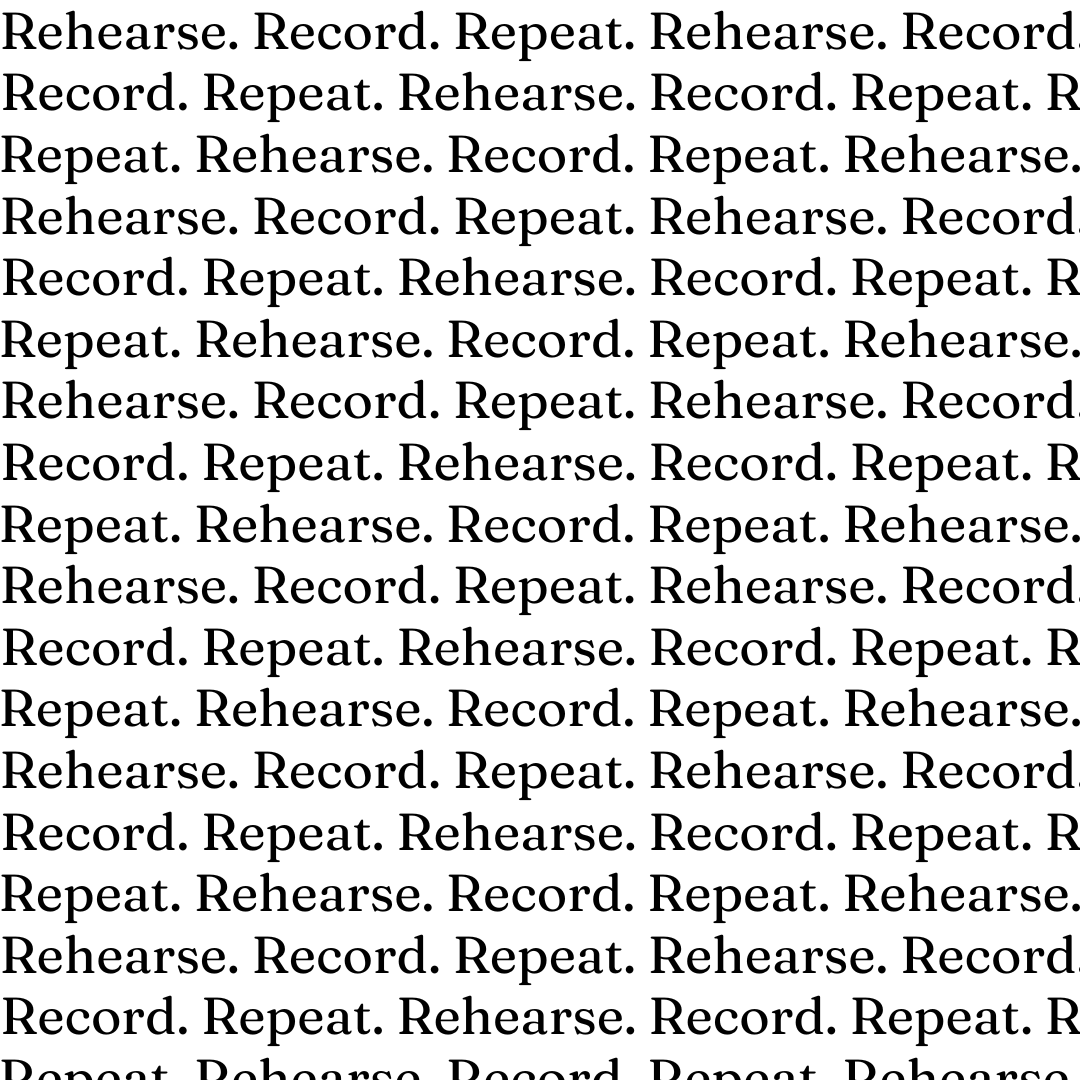
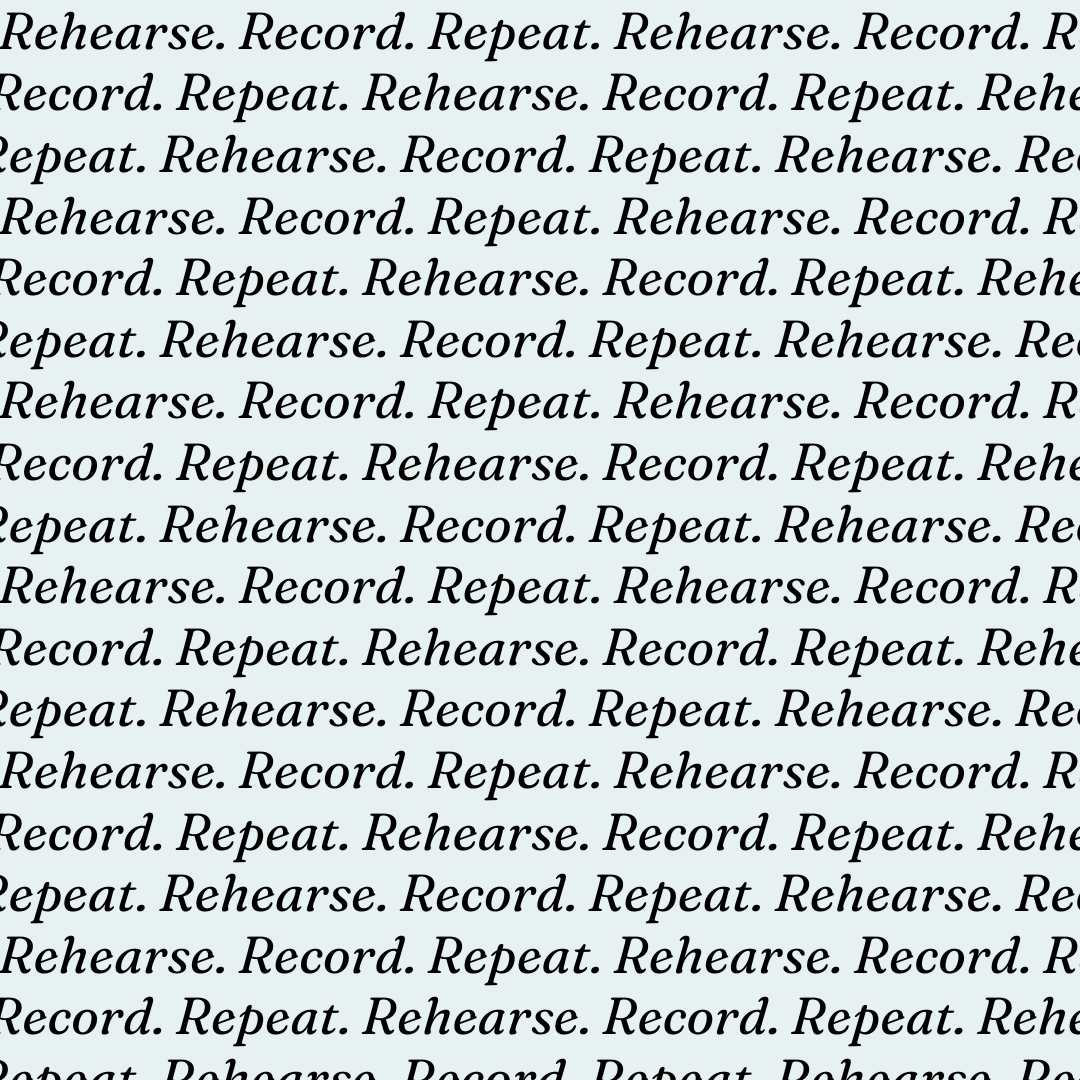
Position repeating text image to allow for larger devices

Changed region(s): [[0.0, 0.0, 1.0, 1.0]]

diff --git a/templates/landing.html b/templates/landing.html
@@ -10,7 +10,7 @@
         <!-- Column Two -->
         <div class="col-md-6 bg-dark-green d-flex flex-column align-items-center">
             <!-- <h3>Rehearse. Record. Repeat</h3> -->
-            <h1>Get closer to your musical goals with <strong>Rescala</strong></h1>
+            <h1 class="text-center mt-5">Get closer to your musical goals with <strong>Rescala</strong></h1>
             <p> Rescala helps you track your practice and become the musician you've always wanted to be.</p>
             <div>
                 <a class="btn btn-dark btn-lg " href="{% url 'account_signup' %}">Try Rescala Now</a>

diff --git a/static/css/style.css b/static/css/style.css
@@ -198,5 +198,5 @@ https://www.educative.io/answers/how-to-add-icons-inside-input-elements-in-html 
 .repeat-text-container{
 	background-image: url('../images/rrr_background.png');
 	background-size: cover;
-
+	background-position: center;
 }
